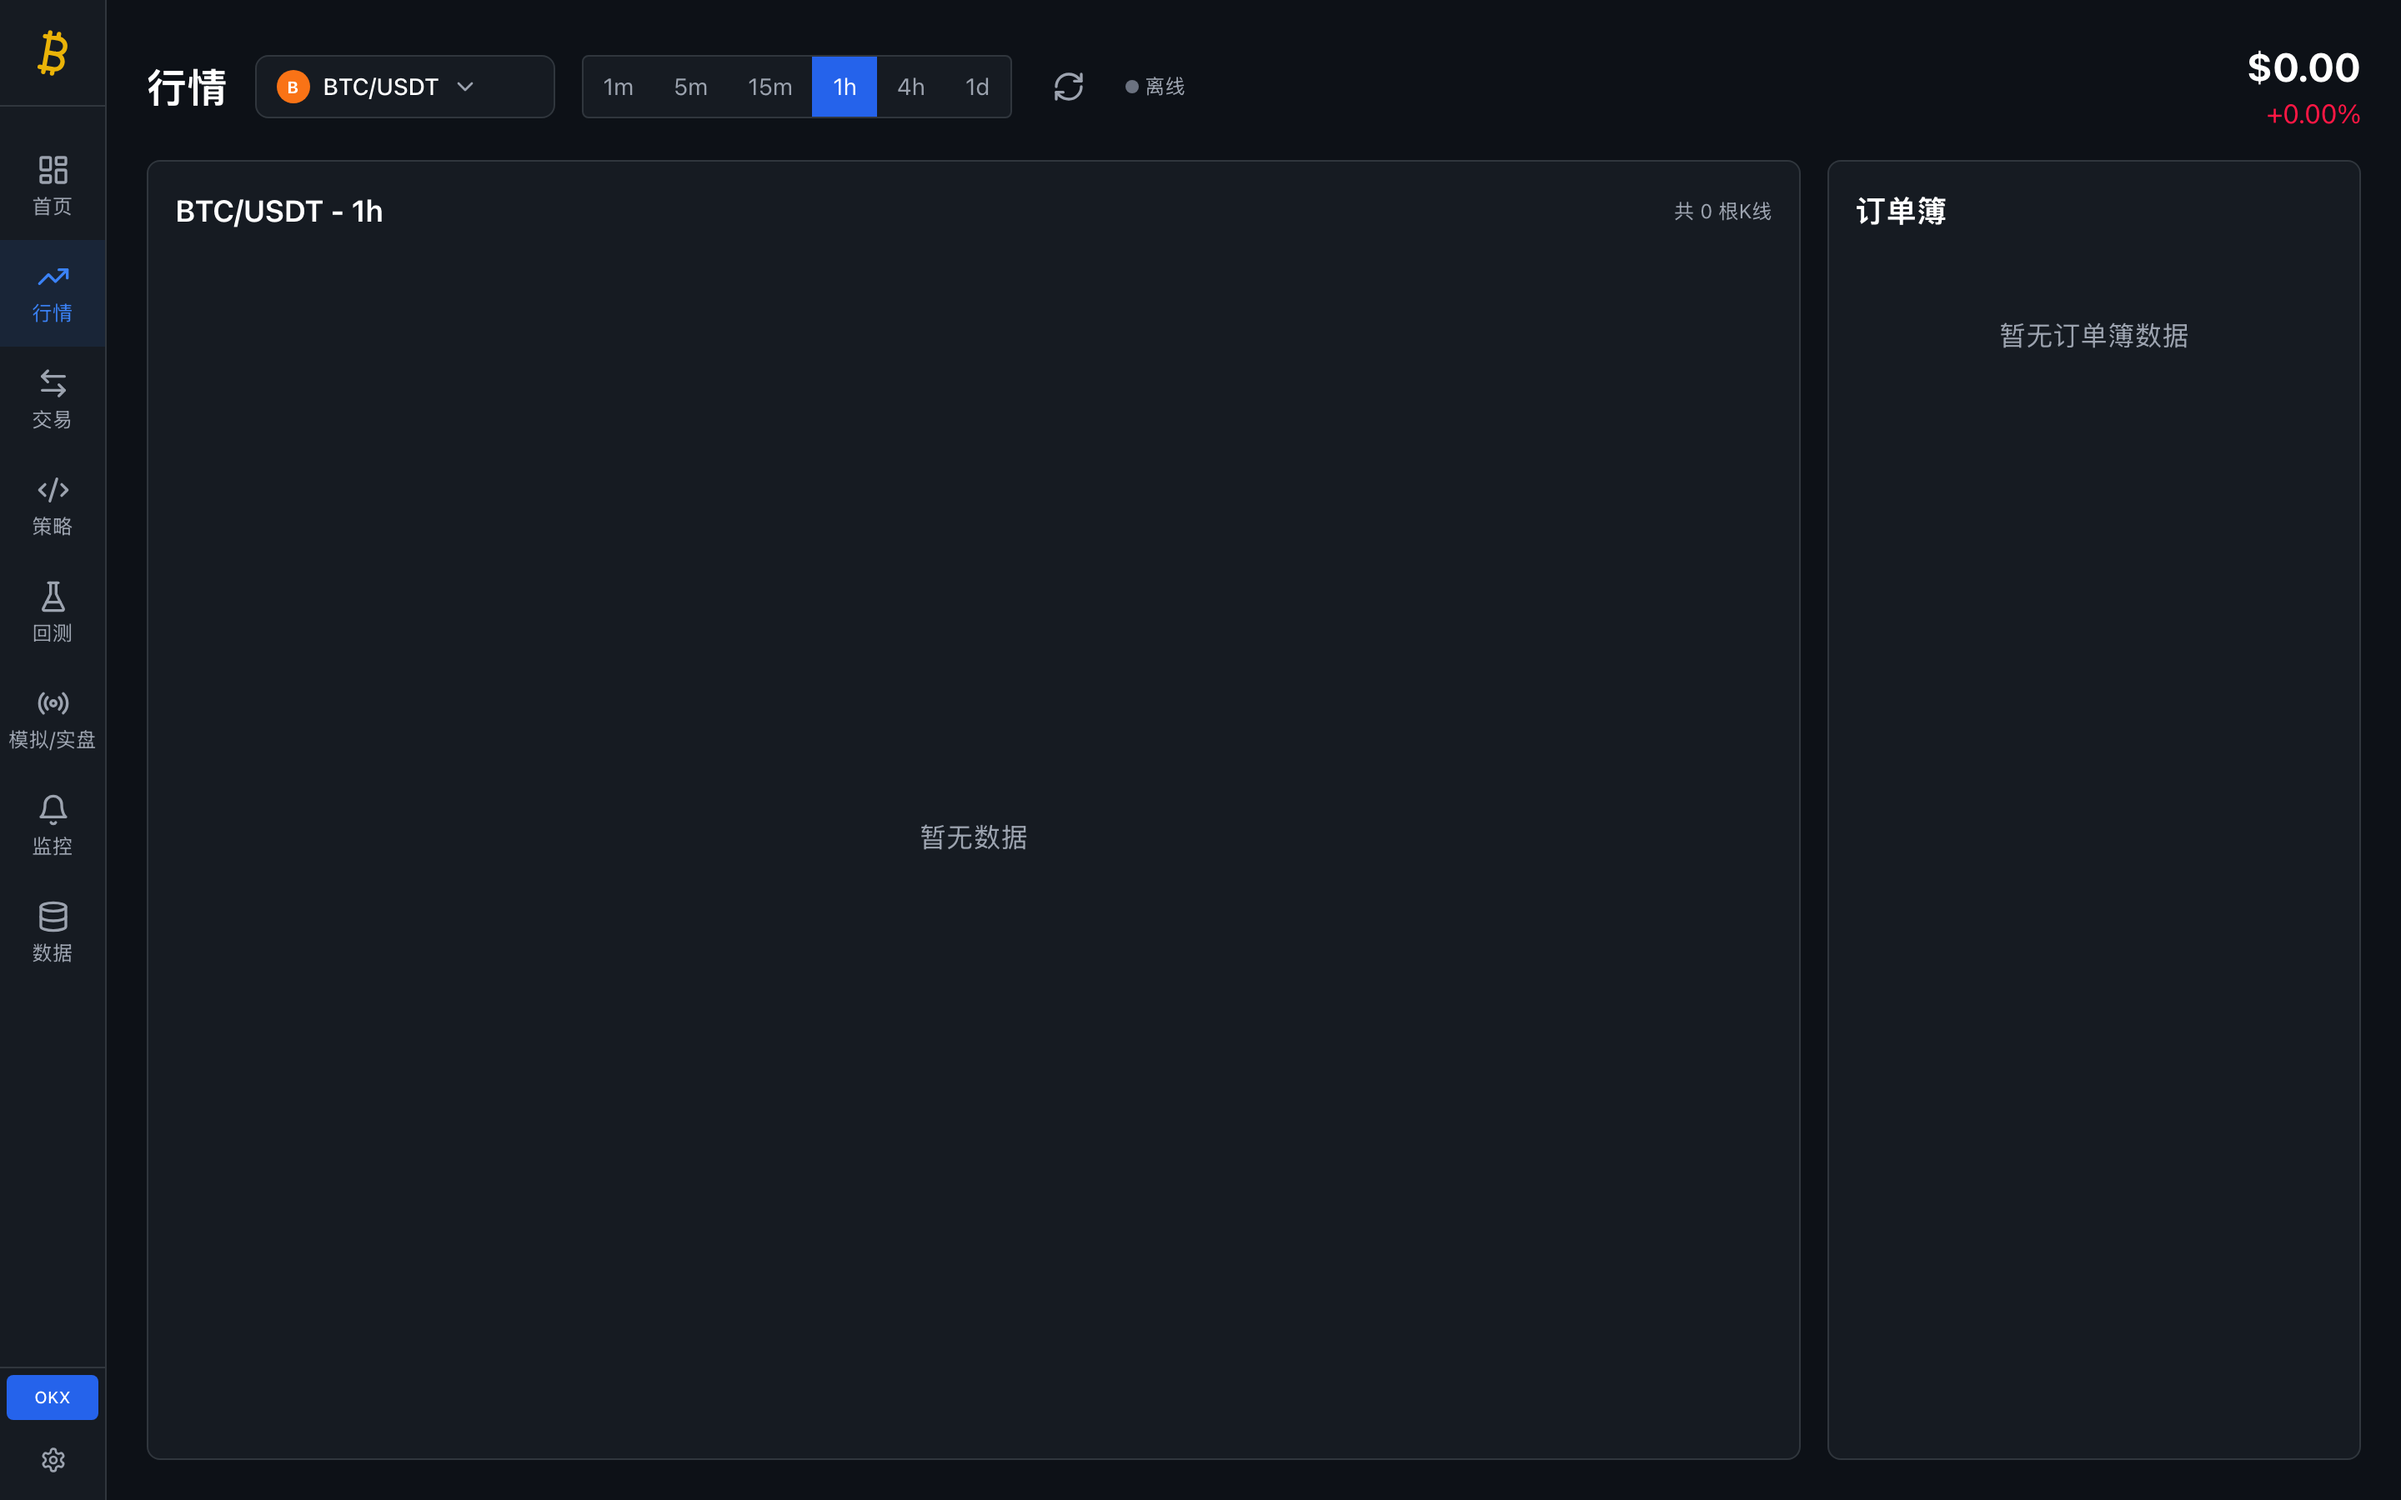
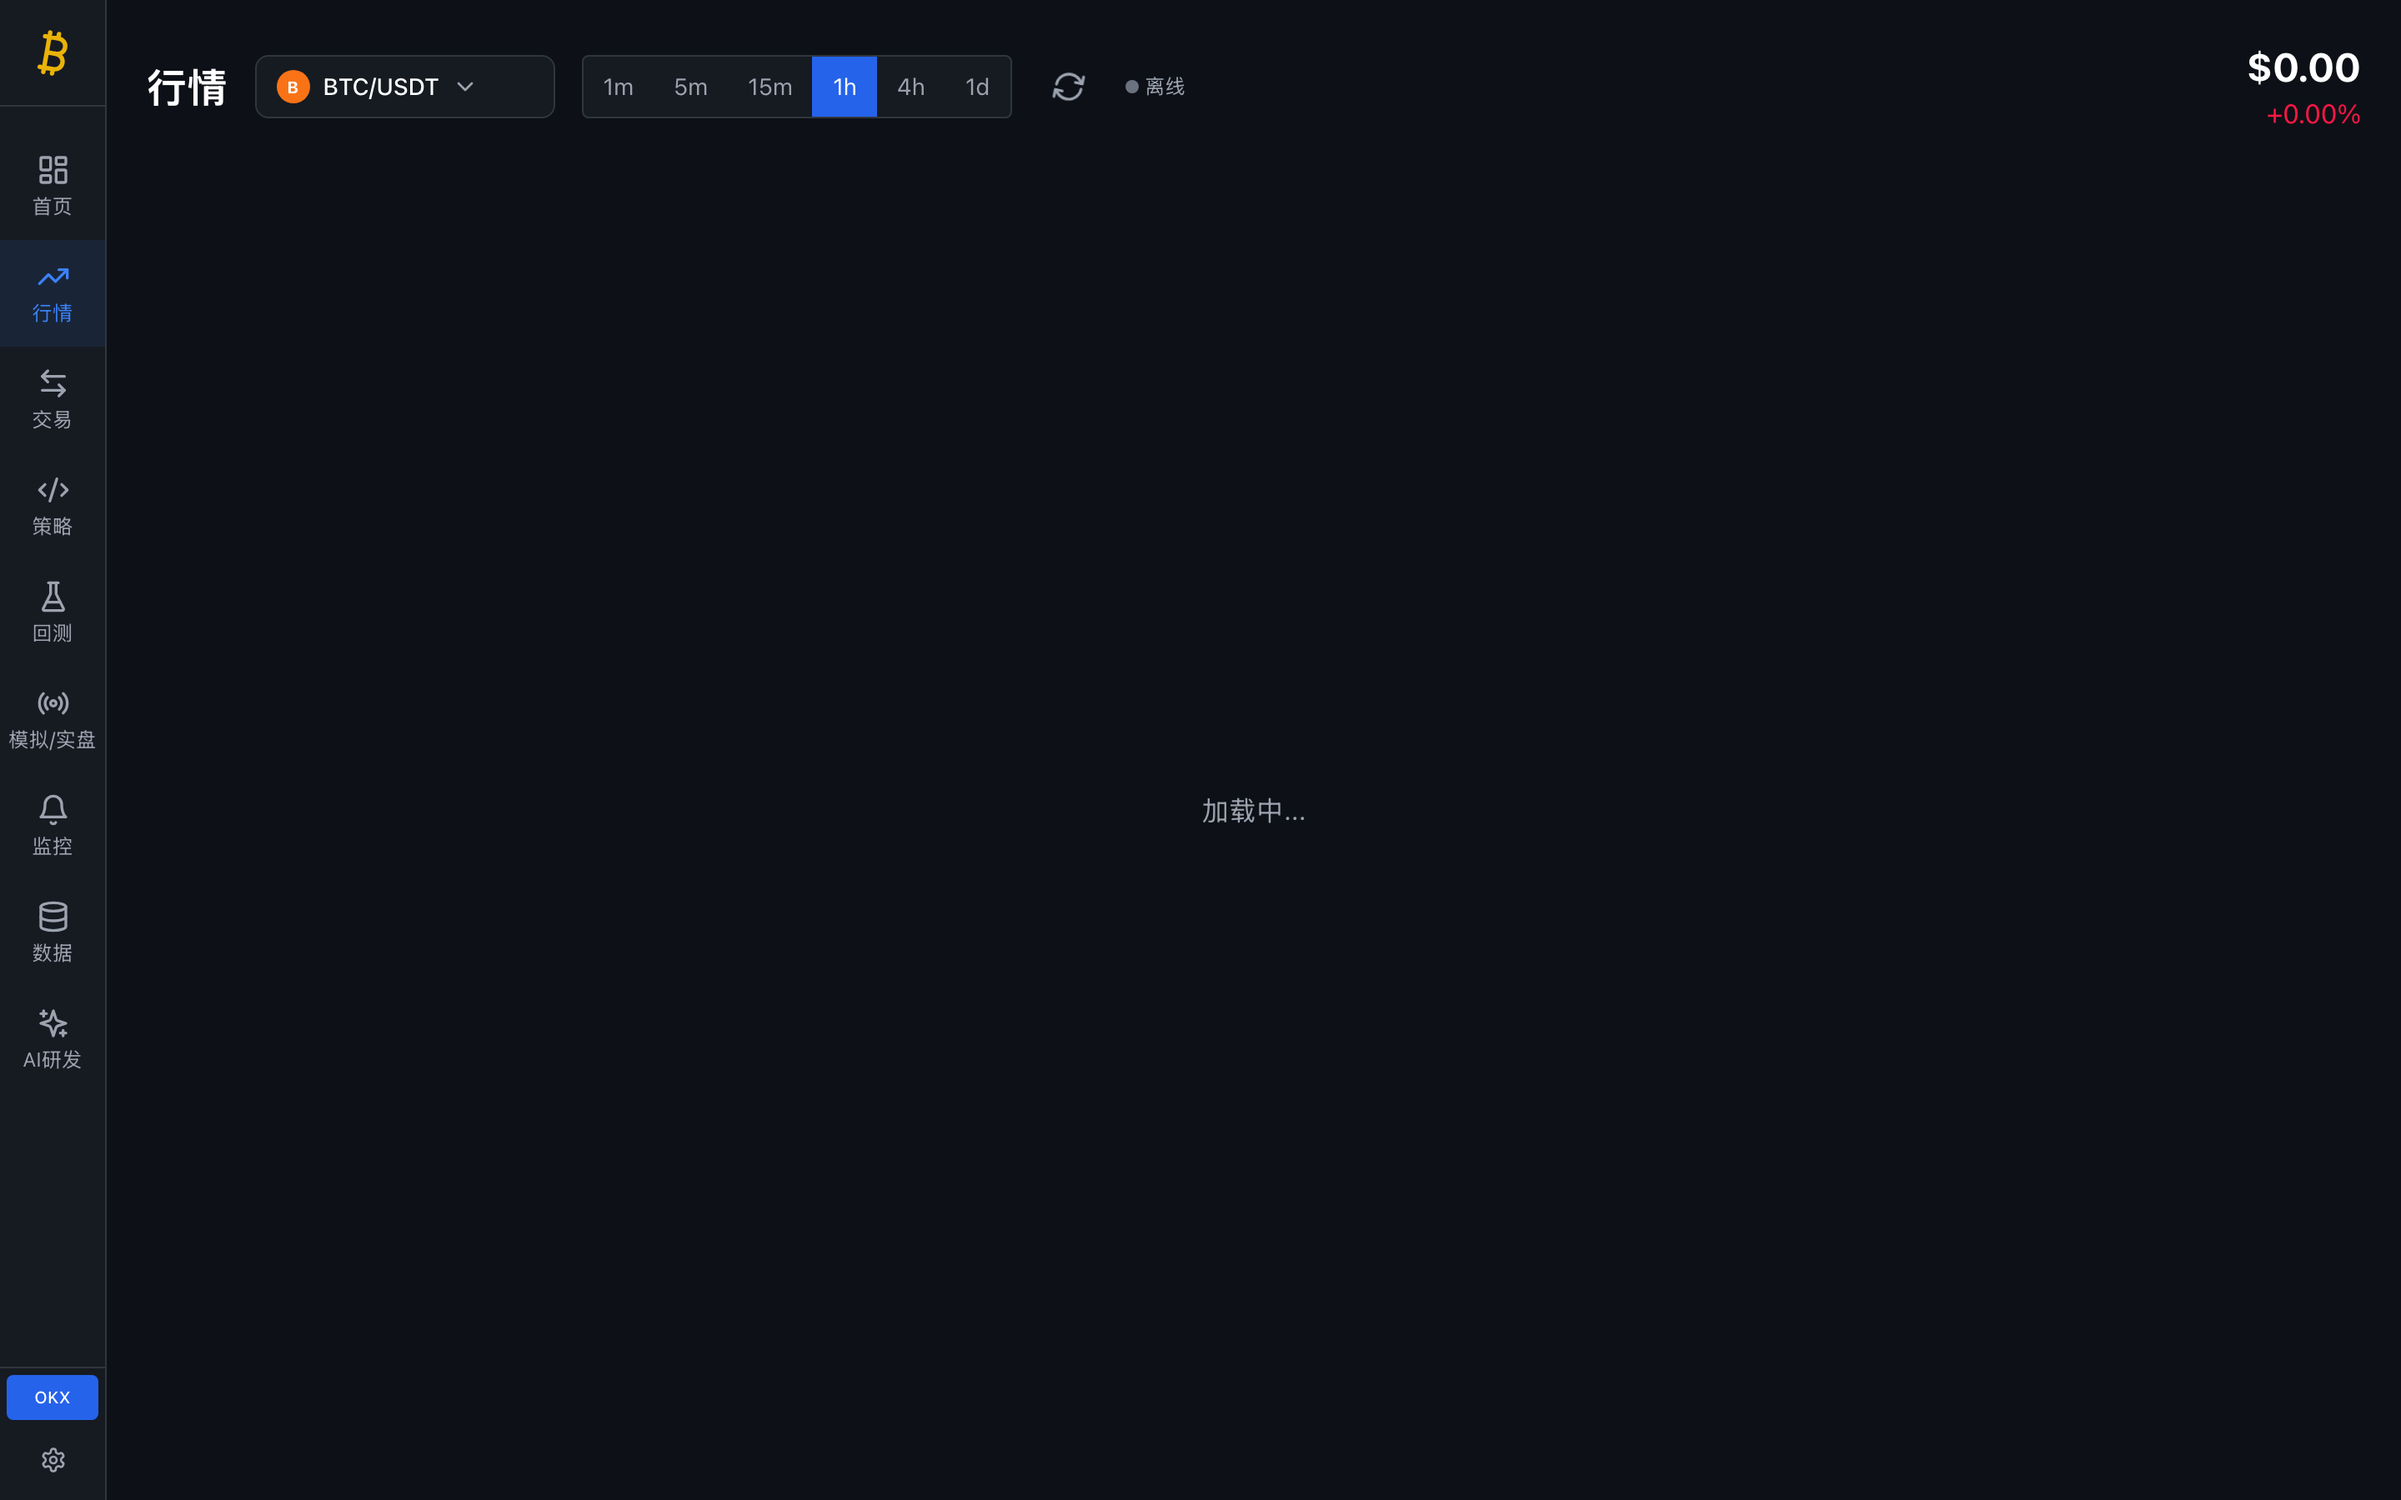
docs: 添加 9 个模块截图到 README，含 AI 研发页面
Made-with: Cursor

diff --git a/README.md b/README.md
@@ -12,6 +12,62 @@
 | AI Agent | 通义千问 Qwen (OpenAI 兼容 API) · 多 Agent 闭环架构 |
 | 运维 | Bash 脚本一键启停 · 日志轮转 · 健康检查 |
 
+## 模块截图
+
+### 首页看板
+
+> 全市场行情总览，支持现货/币币/合约分类筛选，内置热门、DeFi、公链、Meme、AI 等板块标签，实时展示币种价格、24h 涨跌幅、成交额和价格走势，支持自选收藏和搜索。
+
+![首页看板](docs/screenshots/01-home.png)
+
+### 行情监控
+
+> 专业级 K 线图表和订单簿深度图，支持 BTC/USDT 等主流交易对，提供 1m/5m/15m/1h/4h/1d 多个时间周期切换，WebSocket 实时推送最新价格和涨跌变动。
+
+![行情监控](docs/screenshots/02-market.png)
+
+### 交易下单
+
+> 支持限价/市价下单，展示现货和合约账户余额，持仓管理、当前挂单和历史订单查询，买入/卖出比例滑块快捷操作。
+
+![交易下单](docs/screenshots/03-trading.png)
+
+### 策略中心
+
+> 策略管理面板，展示所有策略的状态、绑定交易对、收益情况，支持策略启停控制、参数配置、脚本编辑和新建策略。
+
+![策略中心](docs/screenshots/04-strategy.png)
+
+### 策略回测
+
+> 自研 v2 回测引擎，逐 bar 模拟交易，30+ 技术指标内置，输出完整绩效报告：夏普比率、最大回撤、胜率、盈亏比、资金曲线等。
+
+![策略回测](docs/screenshots/05-backtest.png)
+
+### 模拟盘 / 实盘交易
+
+> 策略实盘运行面板，支持模拟盘验证后再切换实盘上线，展示策略运行状态、持仓和实时收益。
+
+![模拟盘/实盘](docs/screenshots/06-live.png)
+
+### 监控中心
+
+> 系统状态仪表盘，交易所连接状态、策略运行监控、风控告警、系统资源占用，支持 Telegram 告警推送。
+
+![监控中心](docs/screenshots/07-monitor.png)
+
+### 数据管理中心
+
+> K 线历史数据同步管理，资金费率归档，支持按交易对、时间范围查询和数据导出，展示数据覆盖率和同步进度。
+
+![数据管理](docs/screenshots/08-data.png)
+
+### AI 策略研发 (v2 Multi-Agent)
+
+> GAN-inspired 多 Agent 闭环系统：Planner 规格书 → Sprint 合约协商 → Strategist 生成 → Backtester 回测 → Evaluator 独立评估，循环迭代直至达标。支持 5 维度雷达图评分、方向决策 (Pivot/Refine)、合约验收。
+
+![AI策略研发](docs/screenshots/09-ailab.png)
+
 ## 功能模块
 
 ### 行情与交易
